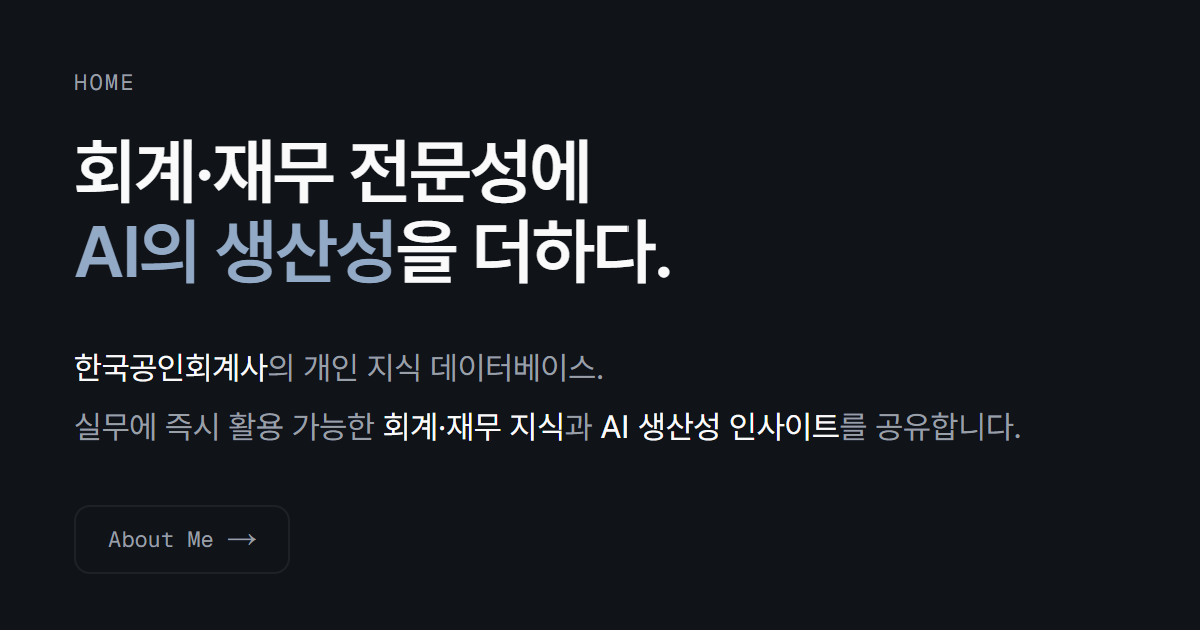
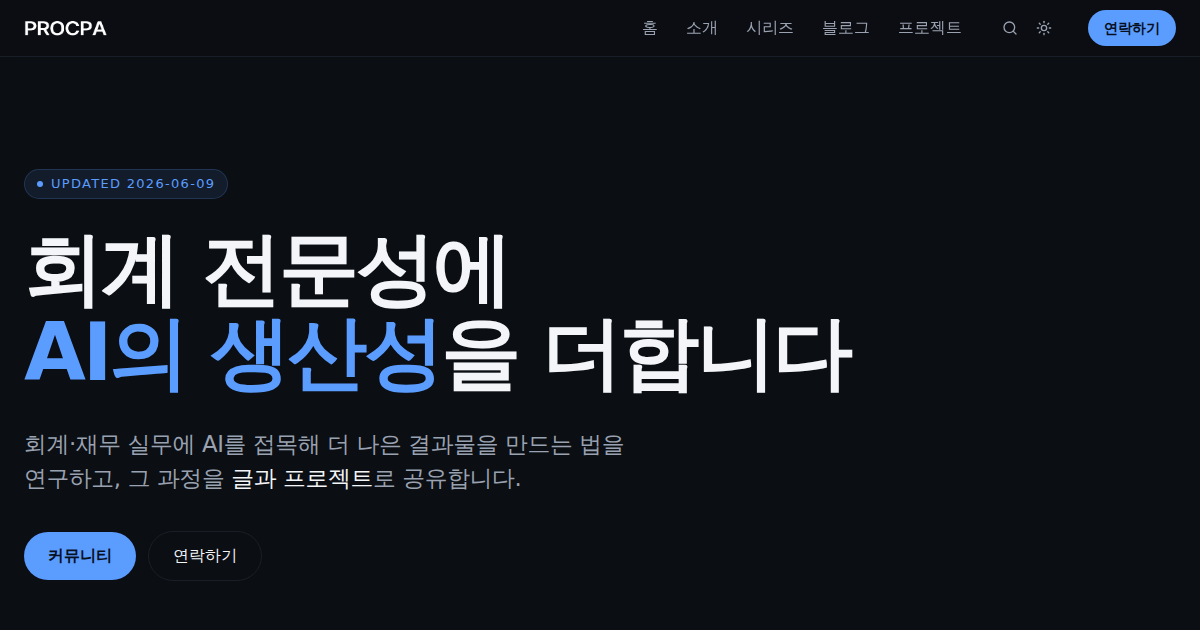
공유(OG) 기본 이미지를 실제 홈페이지 스크린샷으로 교체
- public/og-default.png를 홈페이지 실제 스크린샷(1200×630, 다크)으로 교체
- 홈·블로그·시리즈·탐색·프로젝트 및 표지 없는 글의 og:image를 스크린샷으로 통일
  (표지 있는 콘텐츠는 표지 우선)
- 소개·연락 페이지는 기존 동적 카드 유지(한글 폰트 수정 적용됨)
- 미사용 OG URL 헬퍼(src/lib/og.ts) 제거

https://claude.ai/code/session_01F3BqRCpCuJEHgu54yYVbia

diff --git a/src/app/[...slug]/page.tsx b/src/app/[...slug]/page.tsx
@@ -11,8 +11,9 @@ import { ShareButtons } from '@/components/share-buttons'
 import { MobileCollapsible } from '@/components/mobile-collapsible'
 import { BacklinksPanel } from '@/components/backlinks-panel'
 import { JsonLd, articleJsonLd, breadcrumbJsonLd } from '@/components/json-ld'
-import { ogImageUrl } from '@/lib/og'
 import { ScrollArea } from '@/components/ui/scroll-area'
+
+const DEFAULT_OG = '/og-default.png'
 
 const SITE = 'https://procpa.co.kr'
 
@@ -171,14 +172,7 @@ export async function generateMetadata({ params }: PageProps): Promise<Metadata>
 
   if (r.type === 'post') {
     const { post } = r
-    const ogImage =
-      post.cover ||
-      ogImageUrl({
-        kicker: 'PROCPA · POST',
-        title: post.title,
-        subtitle: post.description,
-        meta: post.date.slice(0, 10),
-      })
+    const ogImage = post.cover || DEFAULT_OG
     return {
       title: post.title,
       description: post.description,
@@ -190,9 +184,7 @@ export async function generateMetadata({ params }: PageProps): Promise<Metadata>
 
   if (r.type === 'series') {
     const { series: s } = r
-    const ogImage =
-      s.cover ||
-      ogImageUrl({ kicker: 'PROCPA · SERIES', title: s.title, subtitle: s.description })
+    const ogImage = s.cover || DEFAULT_OG
     return {
       title: s.title,
       description: s.description,
@@ -205,14 +197,7 @@ export async function generateMetadata({ params }: PageProps): Promise<Metadata>
   // chapter
   const title = `${r.chapter.title} · ${r.series.title}`
   const description = r.chapter.description ?? r.series.description
-  const ogImage =
-    r.series.cover ||
-    ogImageUrl({
-      kicker: 'PROCPA · SERIES',
-      title: r.chapter.title,
-      subtitle: description,
-      meta: r.series.title,
-    })
+  const ogImage = r.series.cover || DEFAULT_OG
   return {
     title,
     description,
@@ -383,14 +368,7 @@ function PostView({
           url,
           datePublished: post.date,
           dateModified: post.updated,
-          image: post.cover
-            ? new URL(post.cover, SITE).toString()
-            : ogImageUrl({
-                kicker: 'PROCPA · POST',
-                title: post.title,
-                subtitle: post.description,
-                meta: post.date.slice(0, 10),
-              }),
+          image: new URL(post.cover ?? DEFAULT_OG, SITE).toString(),
           tags: post.tags,
         })}
       />
@@ -572,14 +550,7 @@ function ChapterView({ r }: { r: Extract<Resolved, { type: 'chapter' }> }) {
           description: r.chapter.description ?? r.series.description,
           url,
           datePublished: r.series.date ?? '',
-          image: r.series.cover
-            ? new URL(r.series.cover, SITE).toString()
-            : ogImageUrl({
-                kicker: 'PROCPA · SERIES',
-                title: r.chapter.title,
-                subtitle: r.chapter.description ?? r.series.description,
-                meta: r.series.title,
-              }),
+          image: new URL(r.series.cover ?? DEFAULT_OG, SITE).toString(),
           tags: r.series.tags,
         })}
       />

diff --git a/src/app/blog/page.tsx b/src/app/blog/page.tsx
@@ -3,17 +3,15 @@ import Link from 'next/link'
 import { posts } from '#site/content'
 import { PageHero } from '@/components/page-hero'
 import { CategoryFilter, type FilterPost } from '@/components/category-filter'
-import { ogImageUrl } from '@/lib/og'
 
 const DESC = '회계·재무 실무와 AI 활용에 관한 단편 포스트.'
-const OG = ogImageUrl({ kicker: 'PROCPA · BLOG', title: '블로그', subtitle: DESC })
 
 export const metadata: Metadata = {
   title: '블로그',
   description: DESC,
   alternates: { canonical: '/blog' },
-  openGraph: { title: '블로그', description: DESC, url: '/blog', images: [{ url: OG, width: 1200, height: 630 }] },
-  twitter: { card: 'summary_large_image', title: '블로그', description: DESC, images: [OG] },
+  openGraph: { title: '블로그', description: DESC, url: '/blog', images: ['/og-default.png'] },
+  twitter: { card: 'summary_large_image', title: '블로그', description: DESC, images: ['/og-default.png'] },
 }
 
 export default function BlogPage() {

diff --git a/src/app/browse/page.tsx b/src/app/browse/page.tsx
@@ -3,19 +3,17 @@ import { TOPIC_KEYS } from '@/lib/topics'
 import { buildCategoryData } from '@/lib/category'
 import { PageHero } from '@/components/page-hero'
 import { BrowseTabs, type BrowseDoc } from '@/components/browse-tabs'
-import { ogImageUrl } from '@/lib/og'
 
 export const dynamic = 'force-static'
 
 const DESC = '회계·AI·개발 등 카테고리별로 시리즈와 포스트를 한곳에서 탐색합니다.'
-const OG = ogImageUrl({ kicker: 'PROCPA · BROWSE', title: '카테고리별 탐색', subtitle: DESC })
 
 export const metadata: Metadata = {
   title: '카테고리별 탐색',
   description: DESC,
   alternates: { canonical: '/browse' },
-  openGraph: { title: '카테고리별 탐색', description: DESC, url: '/browse', images: [{ url: OG, width: 1200, height: 630 }] },
-  twitter: { card: 'summary_large_image', title: '카테고리별 탐색', description: DESC, images: [OG] },
+  openGraph: { title: '카테고리별 탐색', description: DESC, url: '/browse', images: ['/og-default.png'] },
+  twitter: { card: 'summary_large_image', title: '카테고리별 탐색', description: DESC, images: ['/og-default.png'] },
 }
 
 export default function BrowsePage() {

diff --git a/src/app/projects/page.tsx b/src/app/projects/page.tsx
@@ -3,17 +3,15 @@ import { ProjectCard } from '@/components/project-card'
 import { PageHero } from '@/components/page-hero'
 import { resolveArticleHref } from '@/components/home/projects-grid'
 import { projects, type ProjectCategory } from '@/lib/projects-data'
-import { ogImageUrl } from '@/lib/og'
 
 const DESC = '회계·콘텐츠 작업의 불편함을 직접 코드로 풀어 만든 웹 앱·플러그인·MCP 서버 모음.'
-const OG = ogImageUrl({ kicker: 'PROCPA · PROJECTS', title: '프로젝트', subtitle: DESC })
 
 export const metadata: Metadata = {
   title: '프로젝트',
   description: DESC,
   alternates: { canonical: '/projects' },
-  openGraph: { title: '프로젝트', description: DESC, url: '/projects', images: [{ url: OG, width: 1200, height: 630 }] },
-  twitter: { card: 'summary_large_image', title: '프로젝트', description: DESC, images: [OG] },
+  openGraph: { title: '프로젝트', description: DESC, url: '/projects', images: ['/og-default.png'] },
+  twitter: { card: 'summary_large_image', title: '프로젝트', description: DESC, images: ['/og-default.png'] },
 }
 
 const order: ProjectCategory[] = ['Web App', 'Plugin', 'MCP Server']

diff --git a/src/app/series/page.tsx b/src/app/series/page.tsx
@@ -3,17 +3,15 @@ import Link from 'next/link'
 import { series, chapters } from '#site/content'
 import { PageHero } from '@/components/page-hero'
 import { CategoryFilter, type FilterSeries } from '@/components/category-filter'
-import { ogImageUrl } from '@/lib/og'
 
 const DESC = '여러 편으로 이어지는 전자책형 연재 — 주제별로 묶어 한 권씩 읽어 나갈 수 있게 정리했습니다.'
-const OG = ogImageUrl({ kicker: 'PROCPA · SERIES', title: '시리즈', subtitle: '실무 및 AI 활용 가이드' })
 
 export const metadata: Metadata = {
   title: '시리즈',
   description: DESC,
   alternates: { canonical: '/series' },
-  openGraph: { title: '시리즈', description: DESC, url: '/series', images: [{ url: OG, width: 1200, height: 630 }] },
-  twitter: { card: 'summary_large_image', title: '시리즈', description: DESC, images: [OG] },
+  openGraph: { title: '시리즈', description: DESC, url: '/series', images: ['/og-default.png'] },
+  twitter: { card: 'summary_large_image', title: '시리즈', description: DESC, images: ['/og-default.png'] },
 }
 
 export default function SeriesPage() {